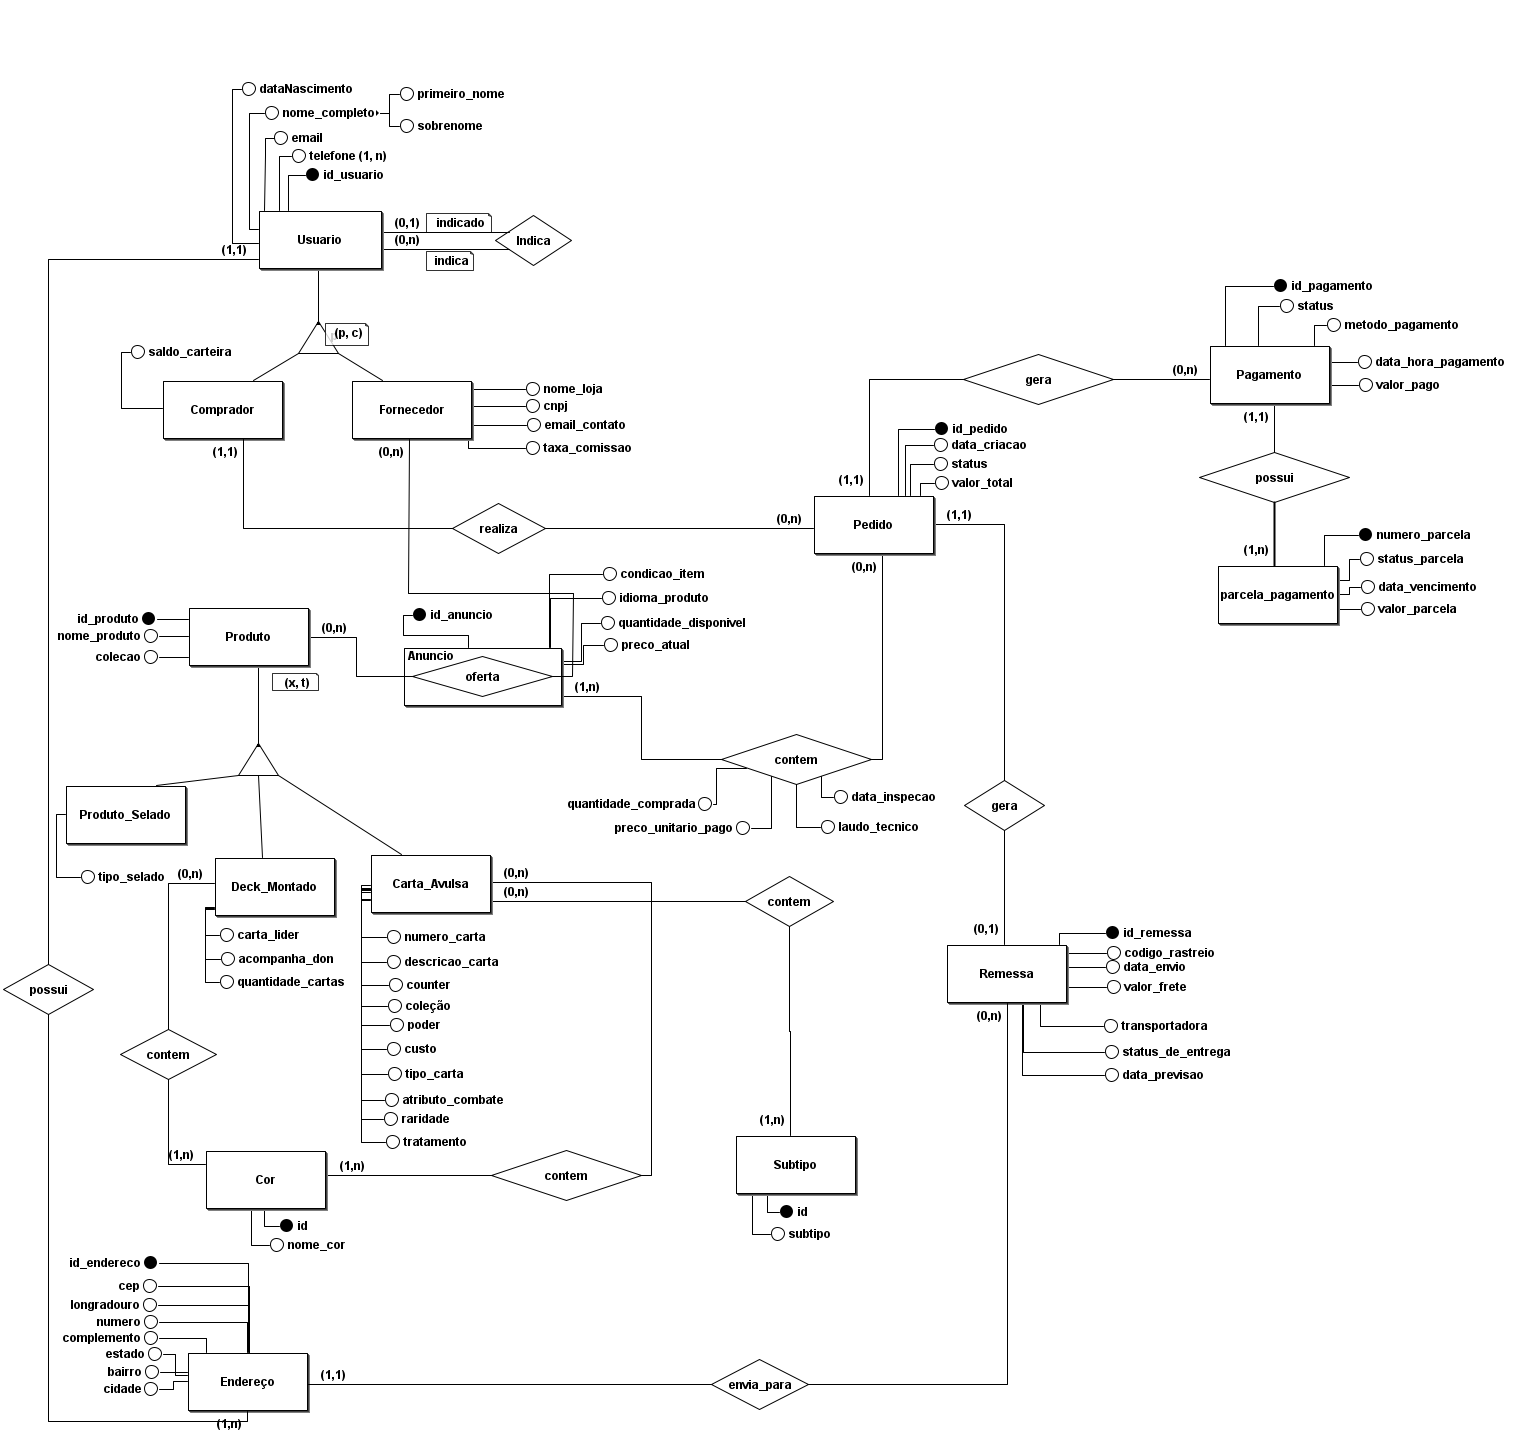
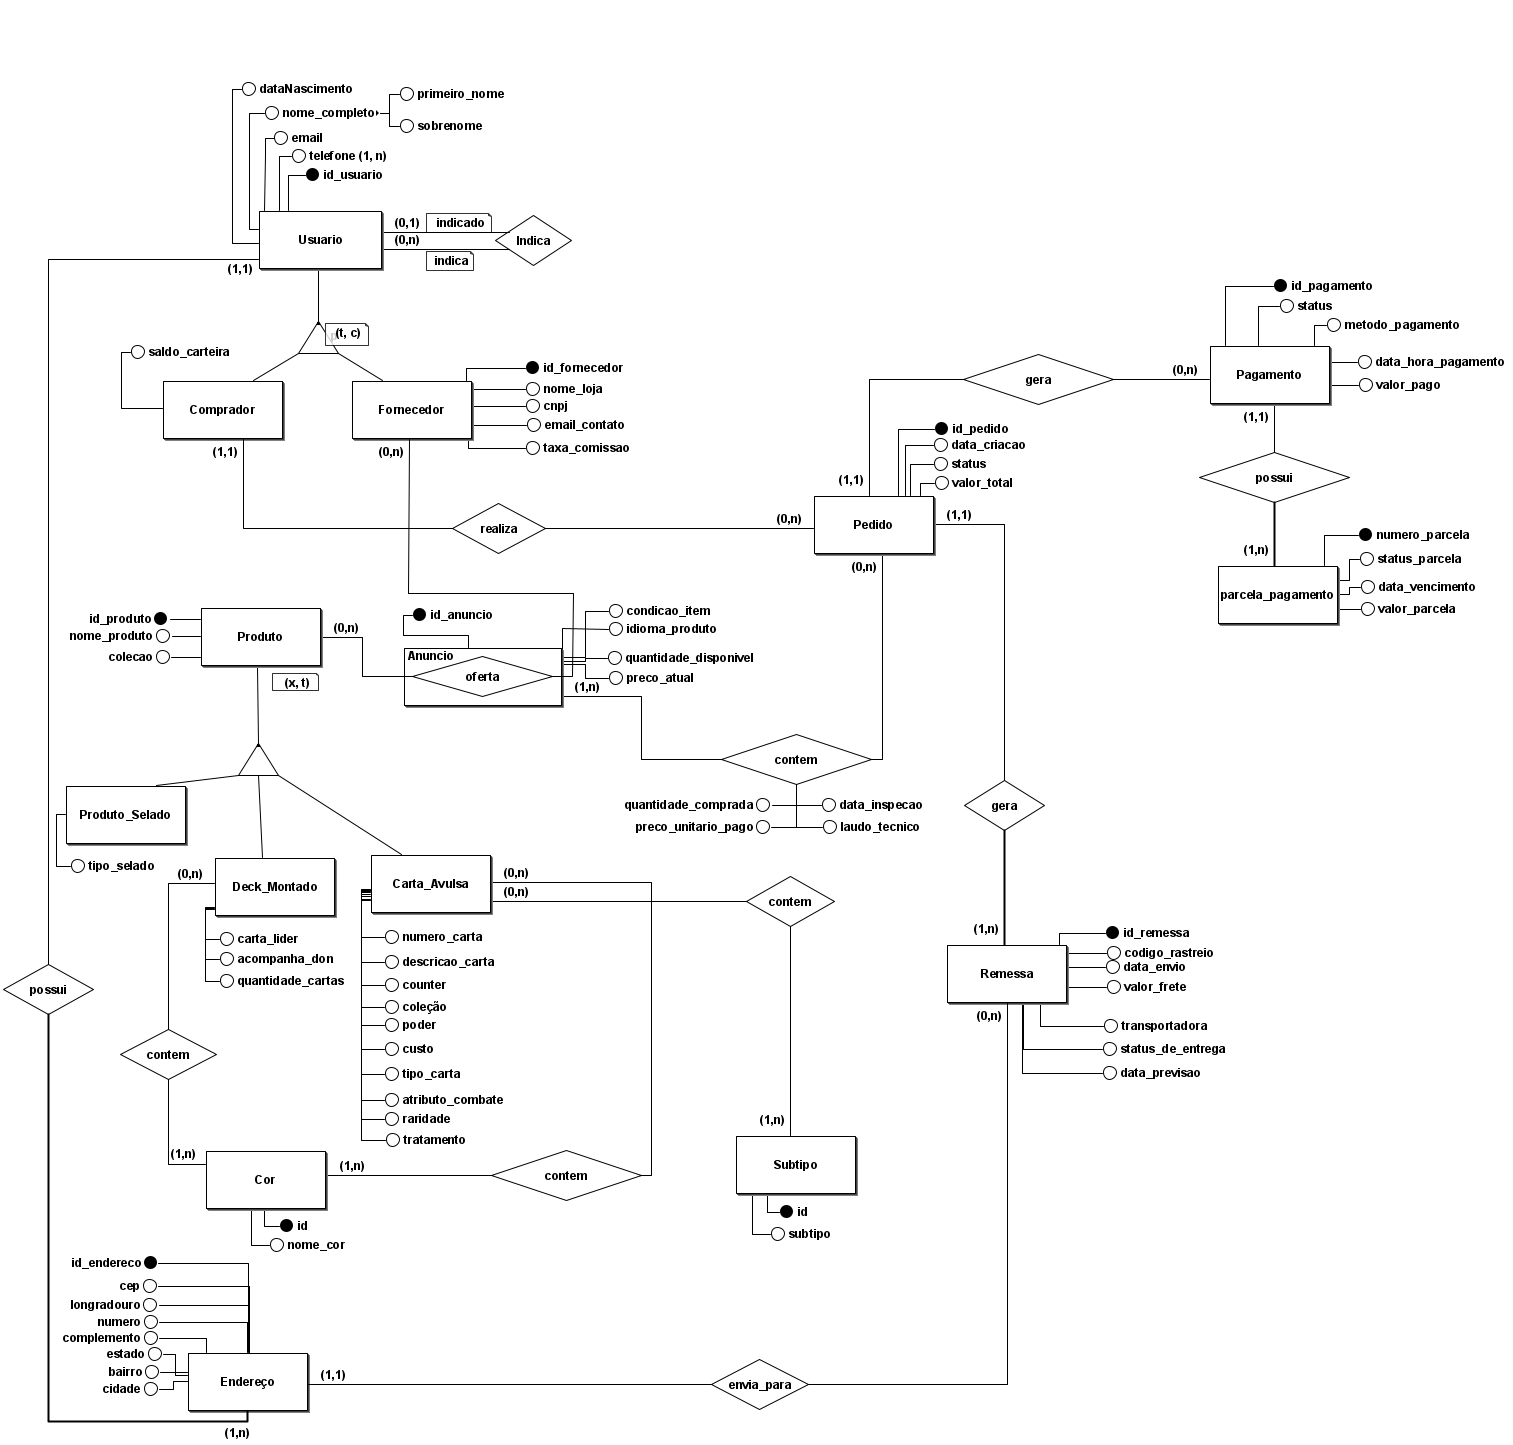
doc: ajuste final readme

diff --git a/README.md b/README.md
@@ -14,6 +14,7 @@ Este projeto foi desenvolvido no contexto da disciplina de **Banco de Dados** da
 - [Banco de Dados](#banco-de-dados)
 - [Instruções de Uso](#instruções-de-uso)
   - [Como rodar o backend e o banco de dados](#como-rodar-o-backend-e-o-banco-de-dados)
+  - [Configuração de Objetos do Banco de Dados (Views, Funções, etc)](#configuração-de-objetos-do-banco-de-dados-views-funções-etc)
   - [Autenticação e proteção de rotas](#autenticação-e-proteção-de-rotas)
   - [Documentação da API](#documentação-da-api)
   - [Como preparar o front-end](#como-preparar-o-front-end)
@@ -74,23 +75,24 @@ Na raiz do back-end, execute o comando abaixo:
 
 ```bash
 docker compose up --build
+
 ```
 
 Esse processo irá:
 
-- construir as imagens necessárias
-- subir o container do banco de dados MySQL
-- subir o container da aplicação back-end
-- expor o back-end na porta `8080`
-- expor o banco MySQL na porta `3307`
+* construir as imagens necessárias
+* subir o container do banco de dados MySQL
+* subir o container da aplicação back-end
+* expor o back-end na porta `8080`
+* expor o banco MySQL na porta `3307`
 
 ### Endereços de acesso
 
 Após a inicialização dos containers, os seguintes serviços estarão disponíveis:
 
-- **Back-end:** `http://localhost:8080`
-- **Documentação da API (Swagger):** `http://localhost:8080/swagger-ui.html`
-- **MySQL:** `localhost:3307`
+* **Back-end:** `http://localhost:8080`
+* **Documentação da API (Swagger):** `http://localhost:8080/swagger-ui.html`
+* **MySQL:** `localhost:3307`
 
 ### Como parar a execução
 
@@ -98,42 +100,87 @@ Para interromper os containers sem removê-los:
 
 ```bash
 docker compose stop
+
 ```
 
 Para interromper e remover os containers:
 
 ```bash
 docker compose down
-```
 
-Para interromper, remover os containers e excluir também o volume do banco de dados:
-
-```bash
-docker compose down -v
 ```
 
 ### Quando utilizar `docker compose down -v`
 
 Esse comando é indicado quando for necessário recriar completamente o ambiente do banco, especialmente em situações como:
 
-- alteração no arquivo `schema.sql`
-- alteração no arquivo `data.sql`
-- reinicialização completa da base de dados
+* alteração no arquivo `schema.sql`
+* alteração no arquivo `data.sql`
+* reinicialização completa da base de dados
 
 Após a remoção dos volumes, utilize novamente:
 
 ```bash
 docker compose up --build
+
 ```
 
-### Estrutura dos arquivos SQL
+---
 
-A inicialização do banco segue a seguinte organização:
+## Configuração de Objetos do Banco de Dados (Views, Funções, etc)
 
-- `schema.sql`: responsável pela criação da estrutura do banco de dados
-- `data.sql`: responsável pela inserção dos dados iniciais
+Após o banco de dados estar rodando, é necessário executar manualmente os scripts SQL que contêm a lógica de negócio avançada (Etapas 04 e 05).
 
-Durante a execução da aplicação, o Spring Boot processa primeiro o `schema.sql` e, em seguida, o `data.sql`.
+### 1. Habilitar criação de funções/triggers
+
+Para evitar erros de permissão ao criar funções no MySQL via Docker, execute:
+
+```bash
+docker exec -it tcghub-mysql sh -c 'mysql -uroot -p"$MYSQL_ROOT_PASSWORD"' -e "SET GLOBAL log_bin_trust_function_creators = 1;"
+
+```
+
+### 2. Importar Views, Funções, Procedures e Triggers
+
+Execute os comandos abaixo na ordem para carregar os arquivos SQL localizados em `src/main/resources/docs/`:
+
+**Views:**
+
+```bash
+docker exec -i tcghub-mysql sh -c 'mysql -uroot -p"$MYSQL_ROOT_PASSWORD" "$MYSQL_DATABASE"' < src/main/resources/docs/etapa04_views.sql
+
+```
+
+**Funções:**
+- Antes, garante que o MySQL permite criar funções:
+
+```bash
+docker exec -it tcghub-mysql sh -c 'mysql -uroot -p"$MYSQL_ROOT_PASSWORD"'
+
+```
+
+- Entrar no mysql e executar
+```bash
+SET GLOBAL log_bin_trust_function_creators = 1;
+```
+
+- Sair do MySQL e executar
+```bash
+docker exec -i tcghub-mysql sh -c 'mysql -uroot -p"$MYSQL_ROOT_PASSWORD" "$MYSQL_DATABASE"' < src/main/resources/docs/etapa05_funcoes.sql
+```
+**Procedimentos:**
+
+```bash
+docker exec -i tcghub-mysql sh -c 'mysql -uroot -p"$MYSQL_ROOT_PASSWORD" "$MYSQL_DATABASE"' < src/main/resources/docs/etapa05_procedimentos.sql
+
+```
+
+**Triggers:**
+
+```bash
+docker exec -i tcghub-mysql sh -c 'mysql -uroot -p"$MYSQL_ROOT_PASSWORD" "$MYSQL_DATABASE"' < src/main/resources/docs/etapa05_triggers.sql
+
+```
 
 ---
 
@@ -147,39 +194,15 @@ Isso significa que parte dos endpoints está disponível publicamente, enquanto 
 
 As rotas abaixo podem ser acessadas sem autenticação:
 
-- `/auth/register`
-- `/auth/login`
-- `/auth/refresh`
-- `/auth/logout`
-- `/h2-console/**`
-- `/swagger-ui.html`
-- `/swagger-ui/**`
-- `/v3/api-docs`
-- `/v3/api-docs/**`
-
-### Rotas protegidas
-
-Toda rota que não esteja listada na seção anterior é considerada **protegida** e exige autenticação.
-
-Para consumi-la, é necessário enviar o token JWT no cabeçalho da requisição no seguinte formato:
-
-```http
-Authorization: Bearer SEU_TOKEN_JWT
-```
-
-### Exemplo de uso
-
-```http
-GET /alguma-rota-protegida
-Authorization: Bearer eyJhbGciOiJIUzI1NiIsInR5cCI6IkpXVCJ9...
-```
-
-### Fluxo básico de autenticação
-
-1. O usuário realiza login por meio da rota `/auth/login`
-2. A API retorna um token JWT válido
-3. Esse token deve ser incluído no cabeçalho `Authorization` das requisições subsequentes
-4. Sem o token, o acesso às rotas protegidas será negado
+* `/auth/register`
+* `/auth/login`
+* `/auth/refresh`
+* `/auth/logout`
+* `/h2-console/`
+* `/swagger-ui.html`
+* `/swagger-ui/`
+* `/v3/api-docs`
+* `/v3/api-docs/`
 
 ---
 
@@ -191,9 +214,8 @@ Para consultar os endpoints disponíveis, seus parâmetros, respostas e testar r
 
 ```text
 http://localhost:8080/swagger-ui.html
-```
 
-Essa interface é a principal referência para visualização e validação dos recursos expostos pela API durante o desenvolvimento.
+```
 
 ---
 
@@ -205,19 +227,19 @@ Para execução do front-end localmente, siga os passos abaixo.
 
 Download: https://nodejs.org/en/download
 
-> Recomenda-se a utilização da versão LTS mais recente, como a 20.x.
-
 ### 2. Verificar a instalação
 
 ```bash
 node -v
 npm -v
+
 ```
 
 ### 3. Instalar o pnpm
 
 ```bash
 npm install -g pnpm
+
 ```
 
 ### 4. Instalar as dependências do front-end
@@ -225,12 +247,14 @@ npm install -g pnpm
 ```bash
 cd frontend
 pnpm install
+
 ```
 
 ### 5. Executar o front-end
 
 ```bash
 pnpm dev
+
 ```
 
 ---
@@ -239,11 +263,15 @@ pnpm dev
 
 ### Desenvolvedores
 
-- [Amanda Luz](https://github.com/amandaaluzc) — alc2@cesar.school
-- [Lucas Menezes](https://github.com/Lucasmenezes08) — lms4@cesar.school
-- [Ricardo Sérgio Freitas](https://github.com/whosricardo) — rspff@cesar.school
-- [Thiago Fernandes](https://github.com/ThIagoMedeiros21) — tfm3@cesar.school
+* [Amanda Luz](https://github.com/amandaaluzc) — alc2@cesar.school
+* [Lucas Menezes](https://github.com/Lucasmenezes08) — lms4@cesar.school
+* [Ricardo Sérgio Freitas](https://github.com/whosricardo) — rspff@cesar.school
+* [Thiago Fernandes](https://github.com/ThIagoMedeiros21) — tfm3@cesar.school
 
 ### Orientadora
 
-- Natacha Targino
+* Natacha Targino
+
+```
+
+```
